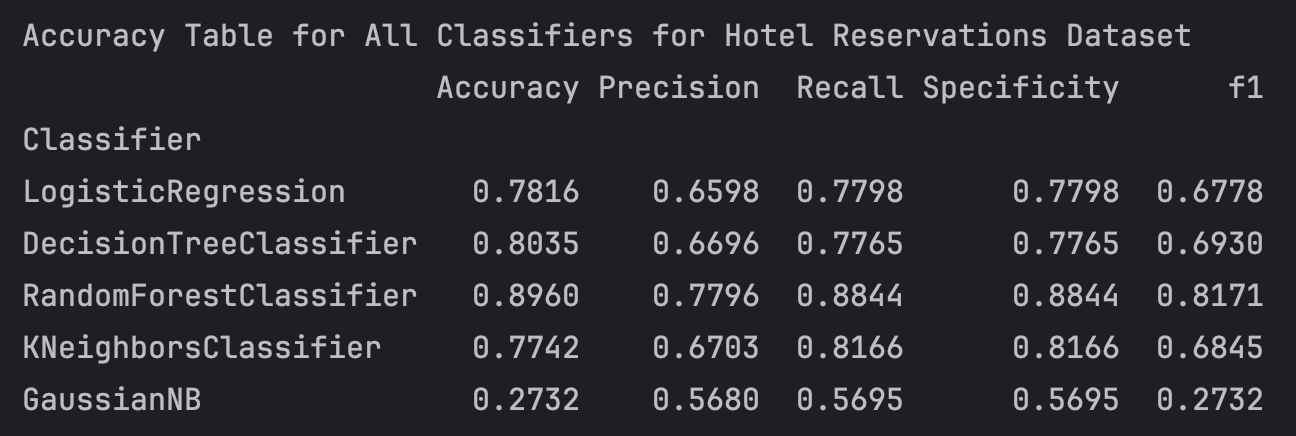
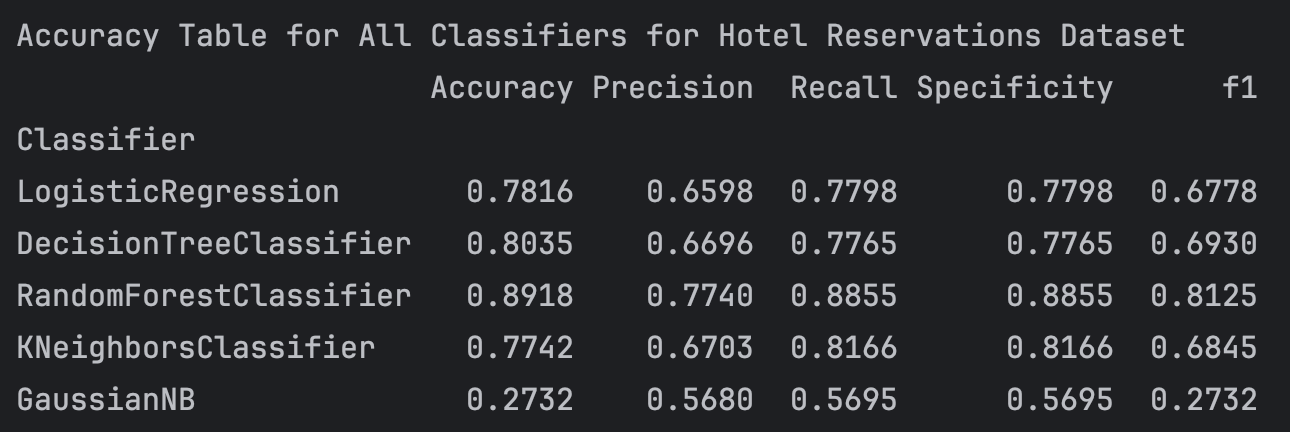
final check

diff --git a/src/data_prep.py b/src/data_prep.py
@@ -87,11 +87,11 @@ print(f"Updated y_test class distribution: {Counter(y_test)}")
 # # Alternative distribution solution
 # df_sampled = df.groupby('Class').sample(n=100, random_state=1)
 
-# Calculate the correlation matrix for numeric columns
-correlation_matrix = df.corr()
-
-# Visualize the correlation matrix using a heatmap
-plt.figure(figsize=(10, 7))
-sns.heatmap(correlation_matrix, annot=True, cmap='coolwarm', fmt='.2f', linewidths=0.5)
-plt.title('Correlation Heatmap - Hotel Reservations Data')
-plt.show()
+# # Calculate the correlation matrix for numeric columns
+# correlation_matrix = df.corr()
+#
+# # Visualize the correlation matrix using a heatmap
+# plt.figure(figsize=(10, 7))
+# sns.heatmap(correlation_matrix, annot=True, cmap='coolwarm', fmt='.2f', linewidths=0.5)
+# plt.title('Correlation Heatmap - Hotel Reservations Data')
+# plt.show()

diff --git a/src/classifiers_all.py b/src/classifiers_all.py
@@ -34,11 +34,11 @@ def evaluate_classifier(model):
 classifiers = [
     LogisticRegression(solver='liblinear', max_iter=500),
     DecisionTreeClassifier(criterion='entropy', max_depth=3, random_state=42),
-    RandomForestClassifier(n_estimators=24, criterion='entropy', bootstrap=True,
-                           max_samples=0.8, random_state=42, max_depth=20),
+    RandomForestClassifier(n_estimators=40, max_depth=30, bootstrap=True),
     KNeighborsClassifier(n_neighbors=8, metric='minkowski'),
     GaussianNB()
 ]
+# n_estimators=24, criterion='entropy', bootstrap=True, max_samples=0.8, random_state=42, max_depth=20
 
 # 5. Evaluate all classifiers and store the results
 accuracy_results = [evaluate_classifier(clf) for clf in classifiers]

diff --git a/README.md b/README.md
@@ -11,17 +11,17 @@ for cancellations include change of plans, scheduling conflicts, etc. This is of
 to do so free of charge or preferably at a low cost which is beneficial to hotel guests, but it is a less desirable 
 and possibly revenue-diminishing factor for hotels to deal with.\
 
-A [Kaggle Hotel Reservations Dataset](https://www.kaggle.com/datasets/ahsan81/hotel-reservations-classification-dataset)\ 
+A [Kaggle Hotel Reservations Dataset](https://www.kaggle.com/datasets/ahsan81/hotel-reservations-classification-dataset) 
 is used for the project. It has **36275 entries, 19 columns**. One of them (booking_status) is the _target column_, 
 _12 features columns_ with data type of integer or float and _4 features columns_ with data type of object. One 
-column - Booking_ID - was dropped.\
+column - Booking_ID - was dropped.
 ### Data Correlation
 **Data Correlation** (a statistical indicator that quantifies the degree to which two variables change in relation to each 
 other) of the Dataset *does not show clear correlation* between data columns, except two minor dependencies:\
 - no_of_previous_bookings_not_canceled / repeated_guest - 0,54
 - avg_price_per_room / room_type_reserved - 0,47
-- lead_time / booking_status - -0,44
-After removing these tree features from dataset result was 0.8624 for Logistic Regression and 0.8414 for Random Forest. 
+- lead_time / booking_status - -0,44\
+After removing these tree features from dataset result was 0.8624 for Logistic Regression and 0.8414 for Random Forest.\ 
 ![Data Correlation Plot](./img/Figure_data_correlation.png)
 ### Dataset Balancing
 **Dataset is unbalanced** - initial train data class distribution is 19512 for not canceled bookings to 9508 
@@ -52,7 +52,7 @@ while testing on the others, to obtain a more robust estimate of the model’s p
 ### Initial Evaluation results
 Classifiers Performance Metrics on Hotel Reservations Dataset are:
 ![Classifier Performance Metrics Table](./img/Screen_accuracy_all.png)
-![Classifier Performance Metrics Figure](./img/Figure_classifier_performance.png)
+![Classifier Performance Metrics Figure](./img/Figure_performance_all.png)
 ### Models fitting
 Two models were fitted: Logistic Regression and Random Forest Classifier.
 ### Logistic Regression
